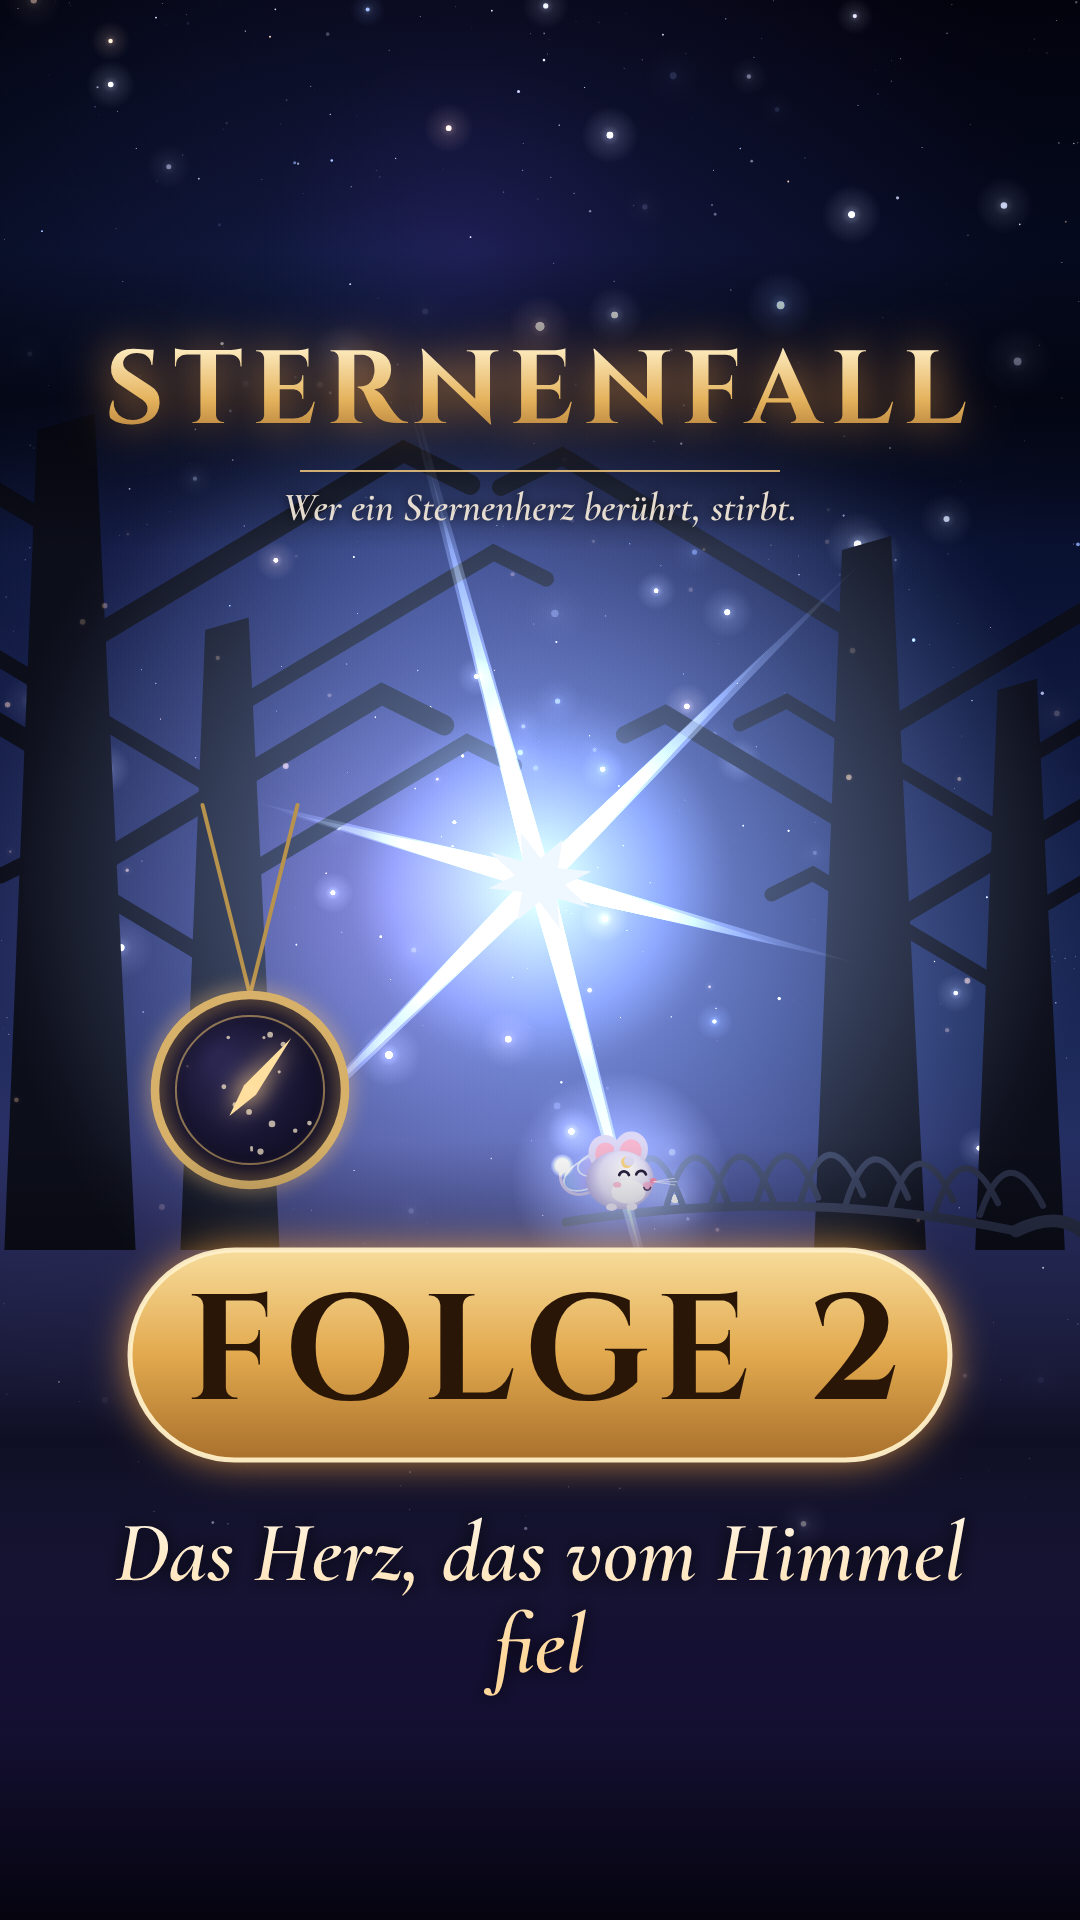
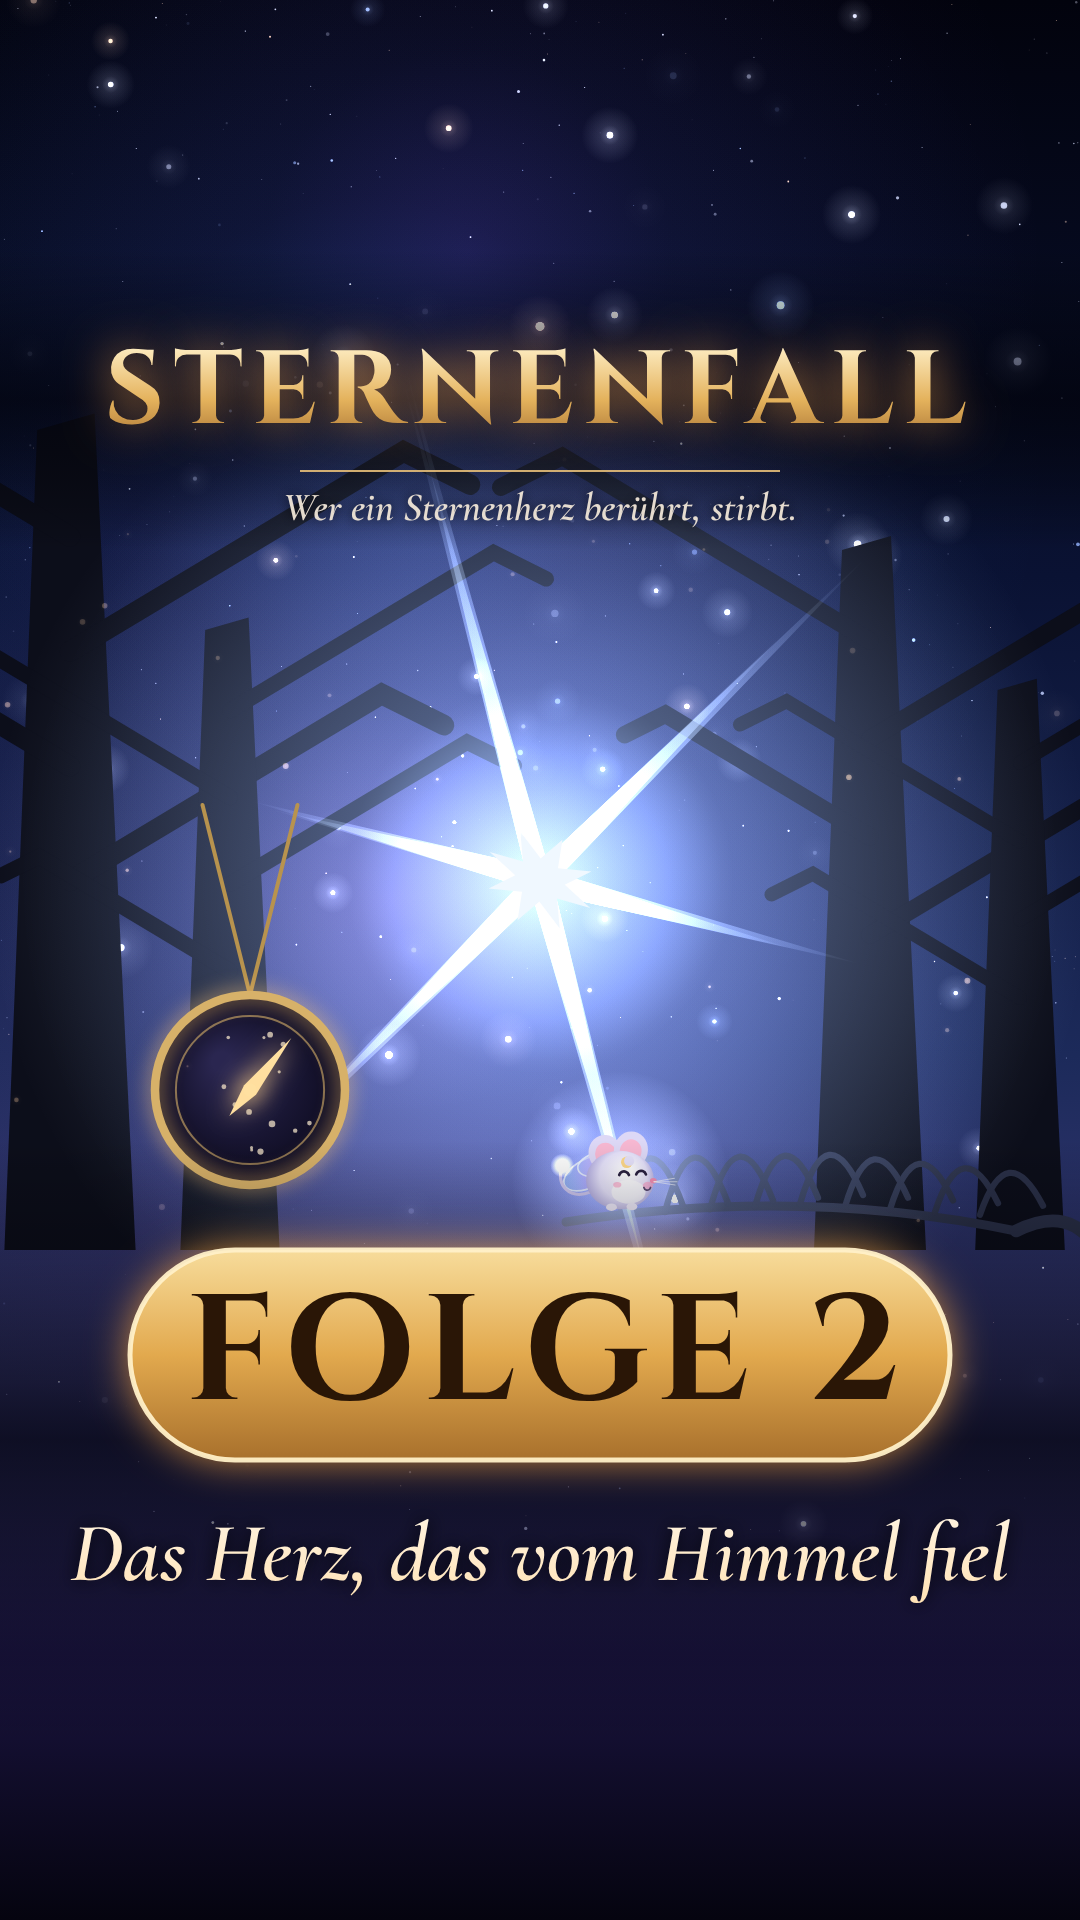
Sternenfall Folge 2: Thumbnail-Titel einzeilig, Beschreibung mit Cliffhanger-Hook
Claude-Session: https://claude.ai/code/session_01McNdgartso3nbaZ6x41dY1

Changed region(s): [[0.0611, 0.7812, 0.9472, 0.875]]

diff --git a/stories/branding/thumbnail.js b/stories/branding/thumbnail.js
@@ -88,7 +88,10 @@ const name = path.basename(storyPath, '.json');
     c.shadowColor = 'rgba(0,0,0,0.95)'; c.shadowBlur = 18;
     const tg = c.createLinearGradient(0, 1500, 0, 1660); tg.addColorStop(0, '#fff6e6'); tg.addColorStop(1, '#ffd79a');
     c.fillStyle = tg;
-    wrap(st.titel || '', 940).forEach((ln, i) => c.fillText(ln, 540, 1580 + i * 92));
+    // keep the title on one line when possible (shrink before wrapping)
+    let ts = 86; c.font = `italic 700 ${ts}px "Cormorant Garamond"`;
+    while (c.measureText(st.titel || '').width > 960 && ts > 66) { ts -= 2; c.font = `italic 700 ${ts}px "Cormorant Garamond"`; }
+    wrap(st.titel || '', 960).forEach((ln, i) => c.fillText(ln, 540, 1580 + i * (ts + 6)));
     c.restore();
     return document.getElementById('c').toDataURL('image/png');
   }, story);

diff --git a/stories/branding/beschreibung_folge02.md b/stories/branding/beschreibung_folge02.md
@@ -3,16 +3,17 @@
 **Beschreibung (zum Kopieren):**
 
 Er kannte meinen Namen, bevor ich ihn je gesehen habe. ⭐
-Folge 2/20 von STERNENFALL 🌙 Die verbotenen Ruinen, ein Sternenherz … und eine Mondmaus, die es für einen Snack hält. 🐭
+Folge 2/20 von STERNENFALL 🌙 Ich hab ein Sternenherz berührt. In den verbotenen Ruinen. Und dann stand plötzlich jemand vor mir, mit dem ich NIE gerechnet hätte … 😳
 Hättest du die Hand ausgestreckt? 👇 Ja oder nein?
 Folge 1 verpasst? Schau auf meinem Profil.
 
 #sternenfall #fantasy #storytime #animation #fürdich
 
 **Angepinnter Kommentar:**
-Für die Akten: Lunara bereut nichts. 🐭✨
+Für die Akten: Lunara bereut nichts. 🐭✨ Und ja … Teil 3 erklärt alles.
 
 **Tipps fürs Posten:**
 - Cover: `branding/thumbs/folge02.png` als Titelbild wählen.
 - In die Playlist „Sternenfall“ direkt hinter Folge 1 legen.
 - Abends posten (18–21 Uhr) und in den ersten 30 Minuten auf Kommentare antworten.
+- Unter Folge 1 einen Kommentar „Teil 2 ist online 👀“ anpinnen bzw. antworten, damit Zuschauer weiterklicken.
